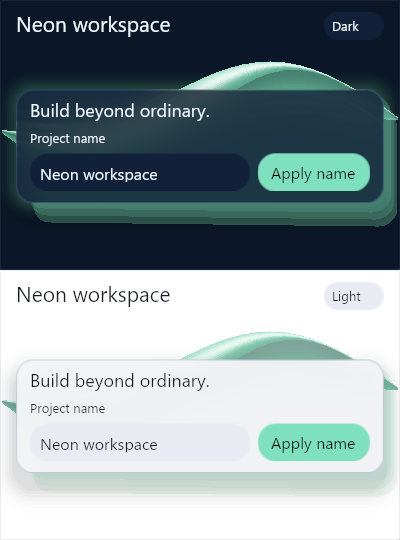
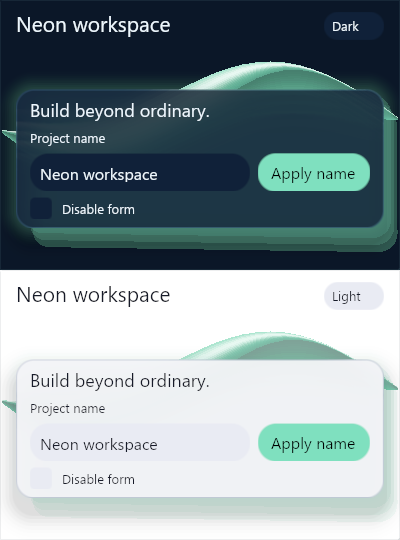
Preview disabled form colors in each authored appearance

Changed region(s): [[0.03, 0.3556, 1.0, 0.4741], [0.03, 0.8593, 0.99, 0.9778]]

diff --git a/src/swirui/studio_comparison.py b/src/swirui/studio_comparison.py
@@ -12,6 +12,7 @@ from . import (
     Badge,
     Button,
     ButtonVariant,
+    Checkbox,
     CommandItem,
     CommandPalette,
     Input,
@@ -57,7 +58,9 @@ class _AppearancePane(Panel):
         self.caption = Label("Project name", bounds=empty, font_size=13)
         self.field = Input("", bounds=empty)
         self.apply = Button("Apply name", bounds=empty, text_align="center")
-        self.card.add(self.headline, self.caption, self.field, self.apply)
+        self.disable_form = Checkbox("Disable form", bounds=empty, font_size=13)
+        self.disable_form.on("changed", self._change_form_state)
+        self.card.add(self.headline, self.caption, self.field, self.apply, self.disable_form)
         self.add(self.ribbon, self.badge, self.variant_button, self.title, self.card)
         self.set_mode(mode, selectable=selectable)
 
@@ -76,9 +79,18 @@ class _AppearancePane(Panel):
         self.mode_label.text = self._full_label
         self.mode_label.accessible_name = f"Choose variant, current {mode}" if selectable else full
         self.field.accessible_name = f"{mode.title()} preview project name"
+        self.disable_form.accessible_name = f"Disable {mode} preview form"
         self._badge_width = max(150, measure_text_block(self._full_label, font_size=13).width + 16)
         self._short_badge_width = max(60, measure_text_block(
             self._short_label, font_size=13).width + 16)
+
+    def _change_form_state(self, _event: Event) -> None:
+        disabled = self.disable_form.checked
+        window = self.mounted_window
+        with state_transaction():
+            if disabled and window and window.focused_component in (self.field, self.apply):
+                window.focus_component(self.disable_form)
+            self.field.enabled = self.apply.enabled = not disabled
 
     def prepare_layout(self, viewport: Rect) -> None:
         self._set_layout_bounds(viewport)
@@ -103,7 +115,11 @@ class _AppearancePane(Panel):
         self.headline._set_layout_bounds(Rect(left, card_y + 16, content, 35))
         self.caption._set_layout_bounds(Rect(left, card_y + 63, content, 20))
         self.field._set_layout_bounds(Rect(left, card_y + 88, content, 40))
-        self.apply._set_layout_bounds(Rect(left, card_y + 152, min(content, 128), 40))
+        check_width = min(content / 2, 120)
+        button_width = min(128, max(0, content - check_width - 8))
+        self.apply._set_layout_bounds(Rect(left, card_y + 152, button_width, 40))
+        self.disable_form._set_layout_bounds(Rect(left + content - check_width, card_y + 152,
+                                                  check_width, 40))
 
     def _arrange_short_pane(self, viewport: Rect) -> None:
         left, top = viewport.x + 16, viewport.y
@@ -114,7 +130,7 @@ class _AppearancePane(Panel):
         card_y = top + 52 + max(0, viewport.height - 195) * .5
         self.ribbon._set_layout_bounds(Rect(viewport.x + 2, card_y - 34,
                                             max(0, viewport.width - 4), 116))
-        self.card._set_layout_bounds(Rect(left, card_y, inner, 114))
+        self.card._set_layout_bounds(Rect(left, card_y, inner, 139))
         content_x, content_w = left + 14, max(0, inner - 28)
         self.headline._set_layout_bounds(Rect(content_x, card_y + 9, content_w, 26))
         self.caption._set_layout_bounds(Rect(content_x, card_y + 40, content_w, 20))
@@ -122,6 +138,7 @@ class _AppearancePane(Panel):
         field = max(0, content_w - button - 8)
         self.field._set_layout_bounds(Rect(content_x, card_y + 64, field, 38))
         self.apply._set_layout_bounds(Rect(content_x + content_w - button, card_y + 64, button, 38))
+        self.disable_form._set_layout_bounds(Rect(content_x, card_y + 106, min(120, content_w), 26))
 
 
 class _VariantDialog(Modal):
@@ -193,12 +210,12 @@ class AppearanceComparison(Panel):
             restore = None
             for pane in self.panes:
                 if pane not in panes:
-                    if focused in (pane.field, pane.apply, pane.variant_button):
-                        restore = panes[0].field
+                    if focused in (pane.field, pane.apply, pane.variant_button, pane.disable_form):
+                        restore = panes[0]
                     self.remove(pane)
             for pane in panes:
                 if focused is pane.variant_button and not selectable:
-                    restore = pane.field
+                    restore = pane
                 mode = pane.mode if pane.mode in package.themes else next(available)
                 pane.set_mode(mode, selectable=selectable)
             if len(panes) < count:
@@ -209,7 +226,8 @@ class AppearanceComparison(Panel):
             self.panes = tuple(panes)
             self.set_appearance(package.themes, panes[0].headline.text)
             if window and restore is not None:
-                window.focus_component(restore)
+                target = restore.field if restore.field.enabled else restore.disable_form
+                window.focus_component(target)
 
     def set_design(self, package: ThemePackage, headline: str) -> None:
         with state_transaction():

diff --git a/tests/test_studio.py b/tests/test_studio.py
@@ -2,7 +2,7 @@ from swirui import FUTURE_LIGHT, NEON_BLUE, ThemePackage, Window, mount
 from swirui import __main__ as cli
 from swirui import studio_comparison as comparison_module
 from swirui import studio_suite as studio_module
-from swirui.platforms import NativeWindowHandle, PlatformEvent, PlatformEventKind
+from swirui.platforms import NativeWindowHandle, PlatformEvent, PlatformEventKind, PointerButton
 from swirui.rendering import Rect
 from swirui.studio import Studio
 from swirui.widgets import compile_component_scene
@@ -247,14 +247,53 @@ def test_comparison_reflows_both_forms_at_the_minimum_width_and_restores_them():
                 assert pane.field.bounds.right < pane.apply.bounds.x
                 assert pane.field.bounds.y == pane.apply.bounds.y
             for widget in (pane.mode_label, pane.title, pane.card, pane.headline,
-                           pane.caption, pane.field, pane.apply):
+                           pane.caption, pane.field, pane.apply, pane.disable_form):
                 b = widget.bounds
                 assert pane.bounds.x <= b.x < b.right <= pane.bounds.right
                 assert pane.bounds.y <= b.y < b.bottom <= pane.bounds.bottom
             assert scene.hit_test_xy(pane.apply.bounds.x + 20,
                                      pane.apply.bounds.y + 18).key == pane.apply.key
+            check = pane.disable_form.bounds
+            assert scene.hit_test_xy(check.x + 10, check.y + check.height / 2).key == (
+                pane.disable_form.key
+            )
         assert second.field.value == "Unsubmitted edit" and second.field.caret_index == 4
         assert second.field.selected_text == "bmitted "
+
+
+def test_disabled_preview_is_local_and_focus_survives_package_changes():
+    package = ThemePackage("Workshop", {"ink": NEON_BLUE, "paper": FUTURE_LIGHT}, "ink")
+    root = comparison_module.AppearanceComparison(package, "Settings", variants=("ink", "paper"))
+    window = Window(width=320, height=390)
+    mount(window, root)
+    ink, paper = root.panes
+    ink.field.value = "Unsubmitted draft"
+    window.focus_component(ink.field)
+    ink.disable_form.checked = True
+    assert window.focused_component is ink.disable_form
+    assert not ink.field.enabled and not ink.apply.enabled
+    assert paper.field.enabled and paper.apply.enabled
+    b = ink.apply.bounds
+    for kind in (PlatformEventKind.POINTER_DOWN, PlatformEventKind.POINTER_UP):
+        window._apply_platform_event(PlatformEvent(kind, NativeWindowHandle(1),
+                                                  x=b.x + b.width / 2, y=b.y + b.height / 2,
+                                                  button=PointerButton.LEFT))
+    assert ink.title.text == paper.title.text == "Workshop"
+    window.focus_component(ink.disable_form)
+    assert window.focus_next() is paper.field
+    assert window.focus_next(reverse=True) is ink.disable_form
+    assert window.focus_next(reverse=True) is paper.disable_form
+
+    # Reload while the focused pane disappears. The survivor's field is disabled.
+    solo = ThemePackage("Updated", {"ink": FUTURE_LIGHT}, "ink")
+    root._reload_package(solo, pane_limit=2)
+    assert root.panes == (ink,) and ink.disable_form.checked
+    assert window.focused_component is ink.disable_form
+    assert ink.field.value == "Unsubmitted draft" and ink.theme == FUTURE_LIGHT
+    for kind in (PlatformEventKind.KEY_DOWN, PlatformEventKind.KEY_UP):
+        window._apply_platform_event(PlatformEvent(kind, NativeWindowHandle(1), key_code=0x20))
+    assert ink.field.enabled and ink.apply.enabled and not ink.disable_form.checked
+    assert window.focus_next() is ink.field
 
 
 def test_variant_search_reaches_last_of_32_and_escape_restores_focus():

diff --git a/tests/test_windows_studio.py b/tests/test_windows_studio.py
@@ -166,6 +166,74 @@ def test_saved_theme_cli_renders_both_authored_accents_in_requested_order(tmp_pa
 
 
 @pytest.mark.skipif(sys.platform != "win32", reason="Windows/wgpu required")
+def test_file_preview_switches_one_form_to_its_disabled_palette(tmp_path, monkeypatch):
+    import ctypes
+    from dataclasses import replace
+
+    path = tmp_path / "Field notes.json"
+    ink = replace(NEON_BLUE, palette=replace(NEON_BLUE.palette, disabled="#35283D",
+                                              disabled_text="#F1C7DE"))
+    ThemePackage("Field notes", {"ink": ink, "paper": FUTURE_LIGHT}, "ink").save(path)
+    saved = path.read_bytes()
+
+    def inspect(app):
+        app.start()
+        app.process_events()
+        window, = app.windows
+        dark, light = window.root.panes
+        dark.field.value = "My draft"
+        window.focus_component(dark.field)
+        hwnd = window.native_handle.value
+        context = app.renderer._contexts[hwnd]
+        send = app.platform_backend._user32.SendMessageW
+        send.argtypes = [ctypes.c_void_p, ctypes.c_uint, ctypes.c_size_t, ctypes.c_ssize_t]
+        send.restype = ctypes.c_ssize_t
+
+        def press(key):
+            send(hwnd, 0x0100, key, 1)
+            send(hwnd, 0x0101, key, 1)
+            app.process_events()
+
+        def samples():
+            window._apply_platform_event(PlatformEvent(
+                PlatformEventKind.POINTER_MOVE, window.native_handle, x=2, y=2))
+            app.render_pending(app._frame_schedulers[window].stats.last_frame_time + 1)
+            width, _, rgba = context.read_scene_rgba()
+            colors = []
+            for widget in (dark.field, dark.apply, light.field, light.apply):
+                b = widget.bounds
+                offset = 4 * (round((b.bottom - 6) * window.scale) * width
+                              + round((b.x + b.width / 2) * window.scale))
+                colors.append(bytes(rgba[offset:offset + 3]))
+            b = dark.field.bounds
+            x1, x2 = round((b.x + 8) * window.scale), round((b.right - 8) * window.scale)
+            y1, y2 = round((b.y + 6) * window.scale), round((b.bottom - 6) * window.scale)
+            text_area = b"".join(rgba[4 * (y * width + x1):4 * (y * width + x2)]
+                                 for y in range(y1, y2))
+            return colors, text_area
+
+        press(0x09)
+        press(0x09)
+        assert window.focused_component is dark.disable_form
+        normal, _ = samples()
+        press(0x20)
+        assert dark.disable_form.checked and not light.disable_form.checked
+        disabled, text_area = samples()
+        assert disabled[:2] == [bytes.fromhex("35283D")] * 2
+        assert disabled[2:] == normal[2:] and disabled[:2] != normal[:2]
+        assert any(text_area[i:i + 3] == bytes.fromhex("F1C7DE")
+                   for i in range(0, len(text_area), 4))
+        press(0x20)
+        assert samples()[0] == normal and dark.field.value == "My draft"
+        assert app.renderer._contexts[hwnd] is context
+        return 0
+
+    monkeypatch.setattr(App, "run", inspect)
+    assert cli.main(["preview-theme", str(path)]) == 0
+    assert path.read_bytes() == saved
+
+
+@pytest.mark.skipif(sys.platform != "win32", reason="Windows/wgpu required")
 def test_f5_reloads_saved_material_in_the_open_native_window(tmp_path, monkeypatch):
     import ctypes
     from dataclasses import replace

diff --git a/tests/test_core_theme_coverage.py b/tests/test_core_theme_coverage.py
@@ -16,10 +16,12 @@ from swirui import (
     GlassCard,
     Input,
     Label,
+    PasswordInput,
     ProgressBar,
     ProgressRing,
     ScrollView,
     SplitView,
+    TextArea,
     Toast,
     Tooltip,
     Window,
@@ -33,6 +35,34 @@ BOUNDS = Rect(0, 0, 240, 44)
 
 def child(widget, suffix):
     return next(node for node in widget.build_scene_node().walk() if node.key.endswith(suffix))
+
+
+@pytest.mark.parametrize("control", [Input, PasswordInput, TextArea])
+def test_disabled_field_text_and_placeholder_follow_the_authored_theme(control):
+    root = Component(theme=FUTURE_DARK)
+    field = control("Draft", bounds=BOUNDS, placeholder="Name")
+    explicit = Color.from_hex("#8736AC")
+    custom_text = control("Draft", bounds=BOUNDS, placeholder="Name", foreground=explicit)
+    custom_hint = control("Draft", bounds=BOUNDS, placeholder="Name", placeholder_color=explicit)
+    root.add(field, custom_text, custom_hint)
+
+    def ink(widget):
+        return next(n.fill for n in widget.build_scene_node().walk()
+                    if n.kind is SceneNodeKind.TEXT and n.text)
+
+    for value in ("Draft", ""):
+        field.value = custom_text.value = custom_hint.value = value
+        field.enabled = True
+        normal = ink(field)
+        field.enabled = custom_text.enabled = custom_hint.enabled = False
+        for theme in (FUTURE_LIGHT, FUTURE_DARK):
+            root.theme = theme
+            disabled = theme.text_color("disabled_text")
+            assert ink(field) == disabled
+            assert ink(custom_text) == (explicit if value else disabled)
+            assert ink(custom_hint) == (disabled if value else explicit)
+        field.enabled = True
+        assert ink(field) == normal and field.value == value
 
 
 @pytest.mark.parametrize("factory", [ProgressBar, ProgressRing])

diff --git a/src/swirui/widgets/input.py b/src/swirui/widgets/input.py
@@ -407,7 +407,7 @@ class _TextInputBase(Widget):
                     kind=SceneNodeKind.TEXT,
                     bounds=Rect(content.x - offset, content.y, layout.width, line_height),
                     z_index=1,
-                    fill=self._placeholder_color if showing_placeholder else self._foreground,
+                    fill=self._current_text_color(placeholder=showing_placeholder),
                     text=text,
                     font_size=self._font_size,
                     font_family=self._font_family,
@@ -523,7 +523,7 @@ class _TextInputBase(Widget):
                         kind=SceneNodeKind.TEXT,
                         bounds=Rect(content.x - offset, y, layout.width, height),
                         text=text,
-                        fill=self._placeholder_color if placeholder else self._foreground,
+                        fill=self._current_text_color(placeholder=placeholder),
                         font_size=self._font_size,
                         font_family=self._font_family,
                         z_index=1,
@@ -573,6 +573,12 @@ class _TextInputBase(Widget):
         line_starts = self._line_starts()
         caret_line = self._line_index_for_position(self._caret, line_starts)
         return max(0, min(caret_line - visible_lines + 1, len(line_starts) - visible_lines))
+
+    def _current_text_color(self, *, placeholder: bool) -> Color:
+        attribute = "_placeholder_color" if placeholder else "_foreground"
+        if not self.enabled and self._theme is not None and attribute not in self._theme_overrides:
+            return self._theme.text_color("disabled_text")
+        return self._placeholder_color if placeholder else self._foreground
 
     def _current_background(self) -> Color:
         if not self.enabled:

diff --git a/docs/development-0.2.md b/docs/development-0.2.md
@@ -56,6 +56,32 @@ Set `save.text_align` to `"left"`, `"center"` or `"right"` to position the
 caption inside the button's padding. The default `"auto"` on regular buttons
 uses the renderer's paragraph alignment. Icon buttons default to `"center"`.
 
+## Compare disabled form colors
+
+Select **Disable form** in one pane to see the disabled background and text
+on the project field and **Apply name** button. The other pane stays editable.
+You can check both panes to compare disabled colors across variants. From the
+field, press Tab twice and then Space. Press Space again to resume editing.
+Your draft stays in the field. The same checkbox works in Studio’s live
+comparison and in `python -m swirui preview-theme`.
+
+![Field notes in dark and light themes, with each form switching independently between enabled and disabled](screenshots/preview-disabled-forms.png)
+
+Set the colors in your own theme when you author a package.
+
+```python
+from dataclasses import replace
+from swirui import FUTURE_DARK
+
+ink = replace(FUTURE_DARK, palette=replace(
+    FUTURE_DARK.palette, disabled="#382F40", disabled_text="#CDB6CF"
+))
+```
+
+Themed `Input`, `PasswordInput` and `TextArea` use `disabled_text` for both
+entered text and placeholders while disabled. An explicit `foreground` or
+`placeholder_color` on a field takes precedence for the text it controls.
+
 ## Add magnetic hover to a button
 
 Run `python examples/magnetic_interaction_demo.py`. Move along the edges of

diff --git a/README.md b/README.md
@@ -31,7 +31,11 @@ slider and still fine-tune it horizontally. Select **Launch preview** to try the
 dark and light versions side by side. Narrow the comparison window and the
 two forms stack vertically, keeping the current field and selection. Both
 versions follow changes to the material, accent and corners while the
-comparison is open. In the Inspector, edit **Tilt X (°)** and **Tilt Y (°)**
+comparison is open. Select **Disable form** in either pane to compare its
+disabled field and button with the other appearance. Your draft stays in the
+field when you turn editing back on. [Try the disabled palette](https://github.com/Swir/Swirui/blob/development/0.2/docs/development-0.2.md#compare-disabled-form-colors).
+
+In the Inspector, edit **Tilt X (°)** and **Tilt Y (°)**
 to turn the layers behind a card while its controls stay in place.
 Select **Save theme…** to write both appearances to one
 JSON file. To try them outside
